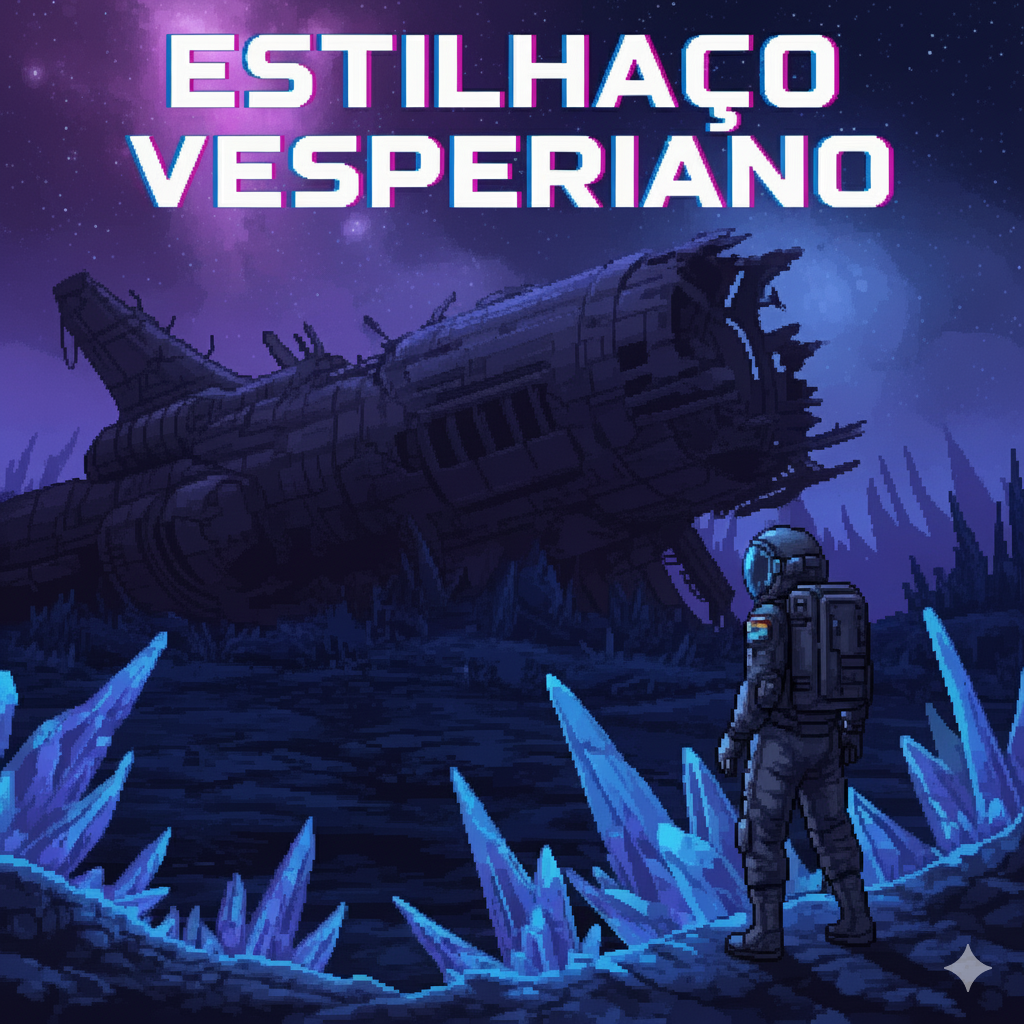
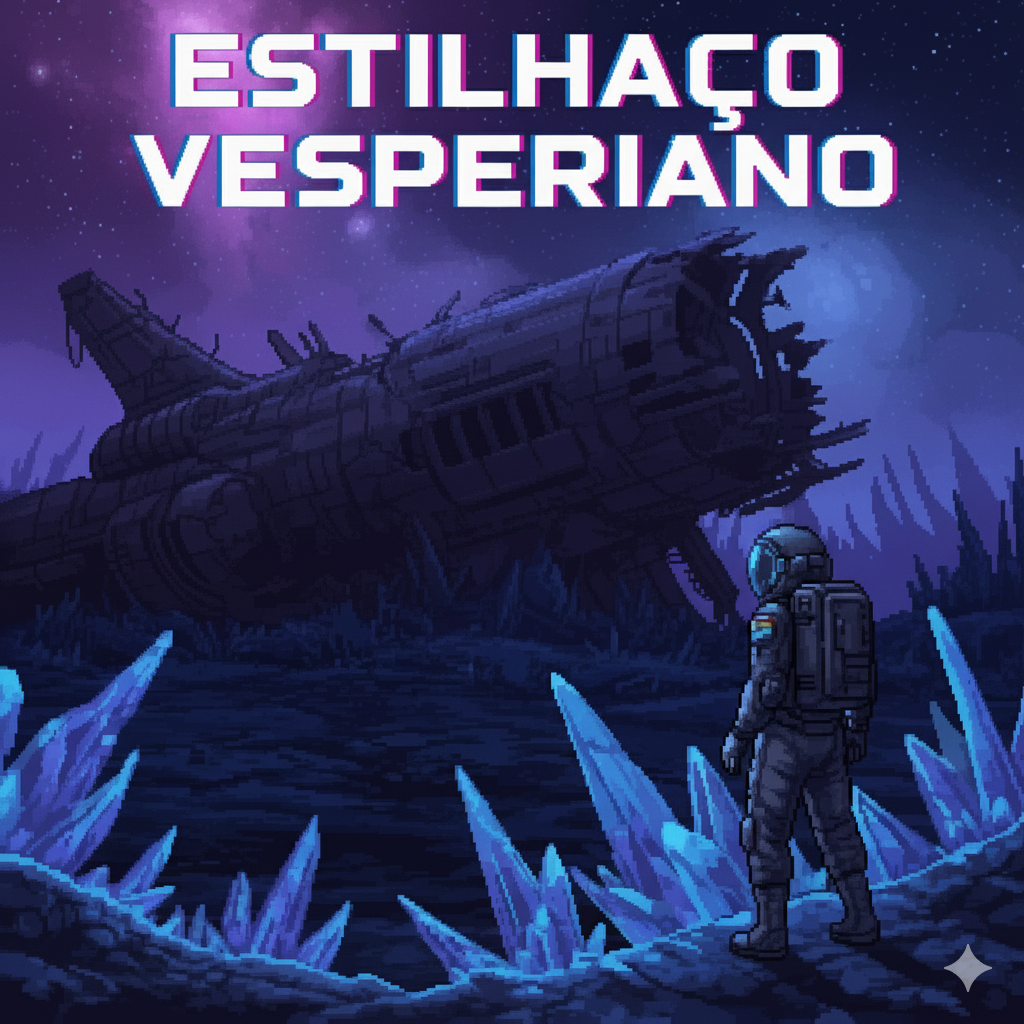
Menu com imagem ajustada

diff --git a/main.py b/main.py
@@ -4,7 +4,7 @@ from sys import exit
 
 relogio = pygame.time.Clock()
 
-cenario1 = pygame.image.load("Menu_-_Estilhaços_Vesperianos.png")
+menu = pygame.image.load("Menu_-_Estilhaços_Vesperianos.png")
 
 imagem_fundo1 = pygame.image.load("Menu_-_Estilhaços_Vesperianos.png")
 
@@ -12,12 +12,13 @@ lado = 0
 alto = 0
 
 def desenharFundo():
-    tela.blit(imagem_fundo1, (0,0))
+    fundo_escalado = pygame.transform.scale(menu, (telargura, telaltura))
+    tela.blit(fundo_escalado, (0,0))
 
 pygame.init()
 
-telargura = 1024
-telaltura = 1024
+telargura = 975
+telaltura = 675
 
 fontexto = pygame.font.SysFont("arial", 30, False, False)
 
